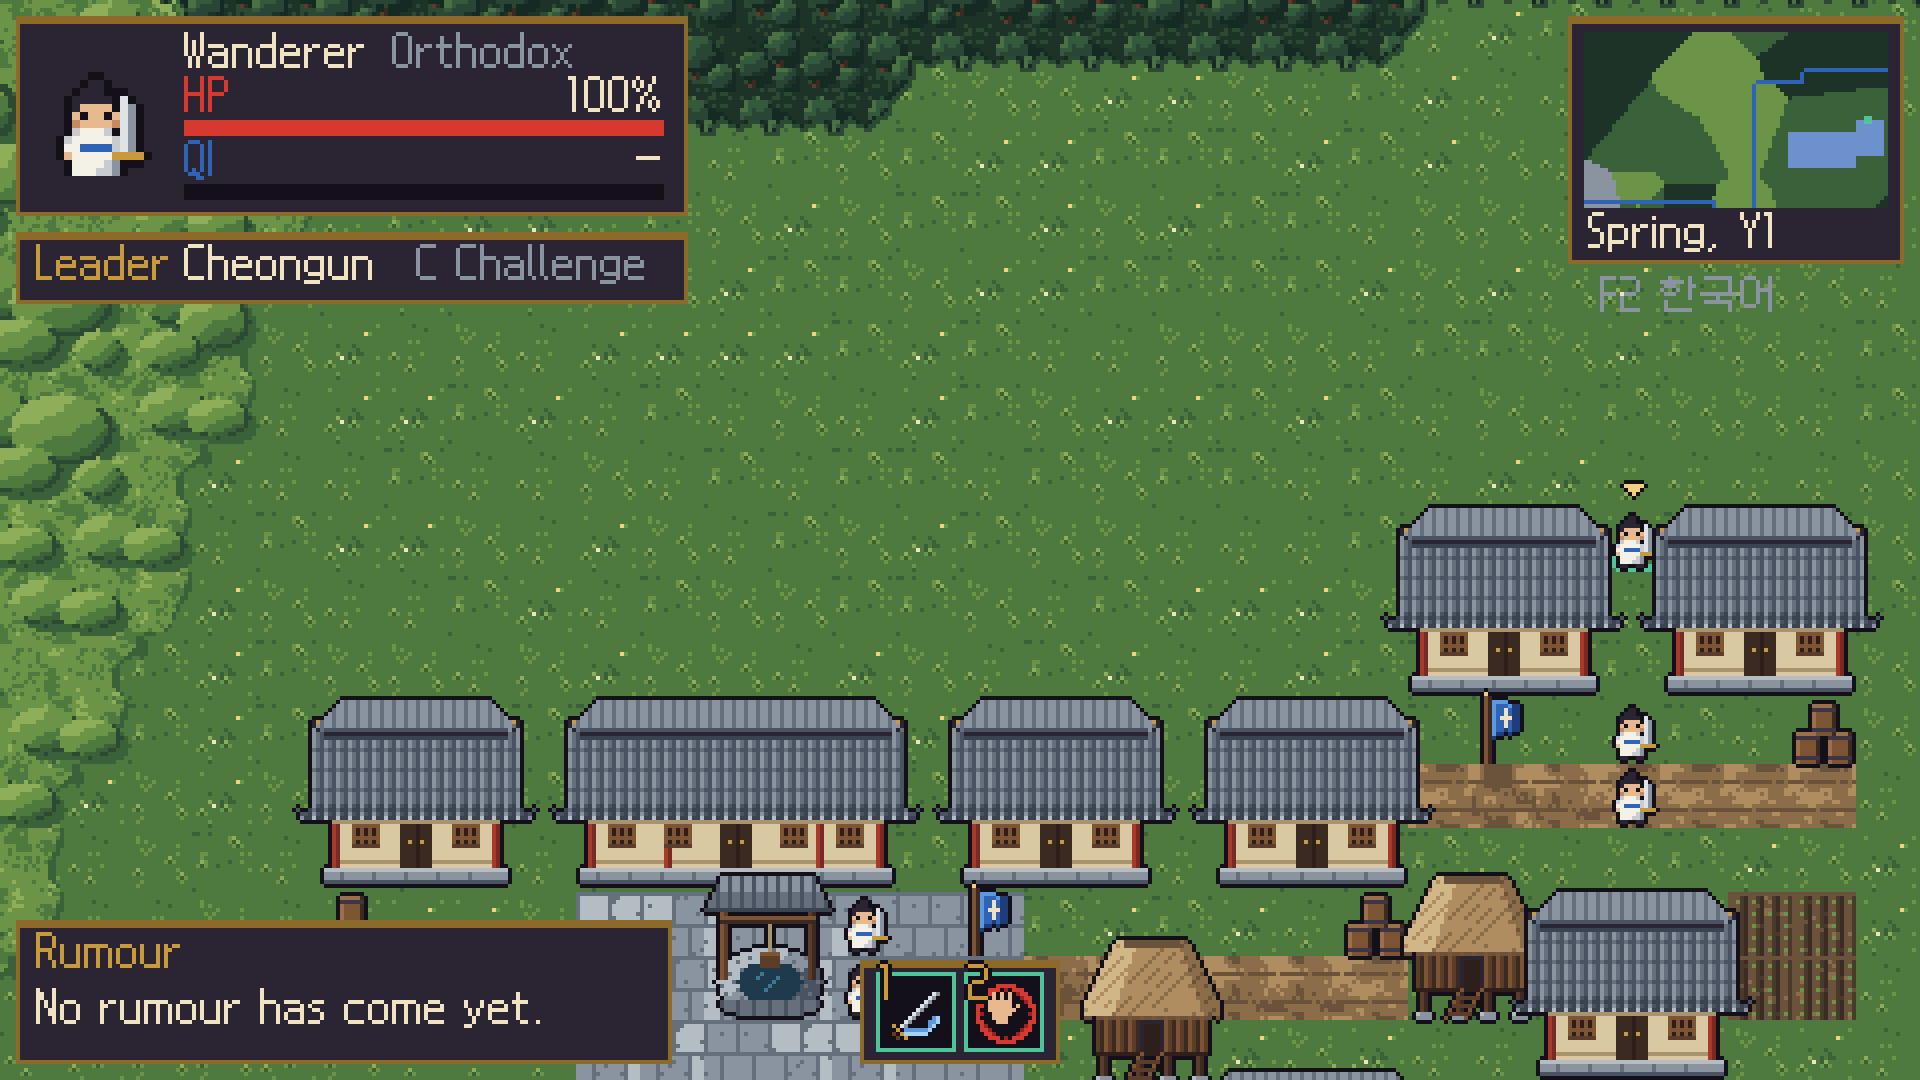
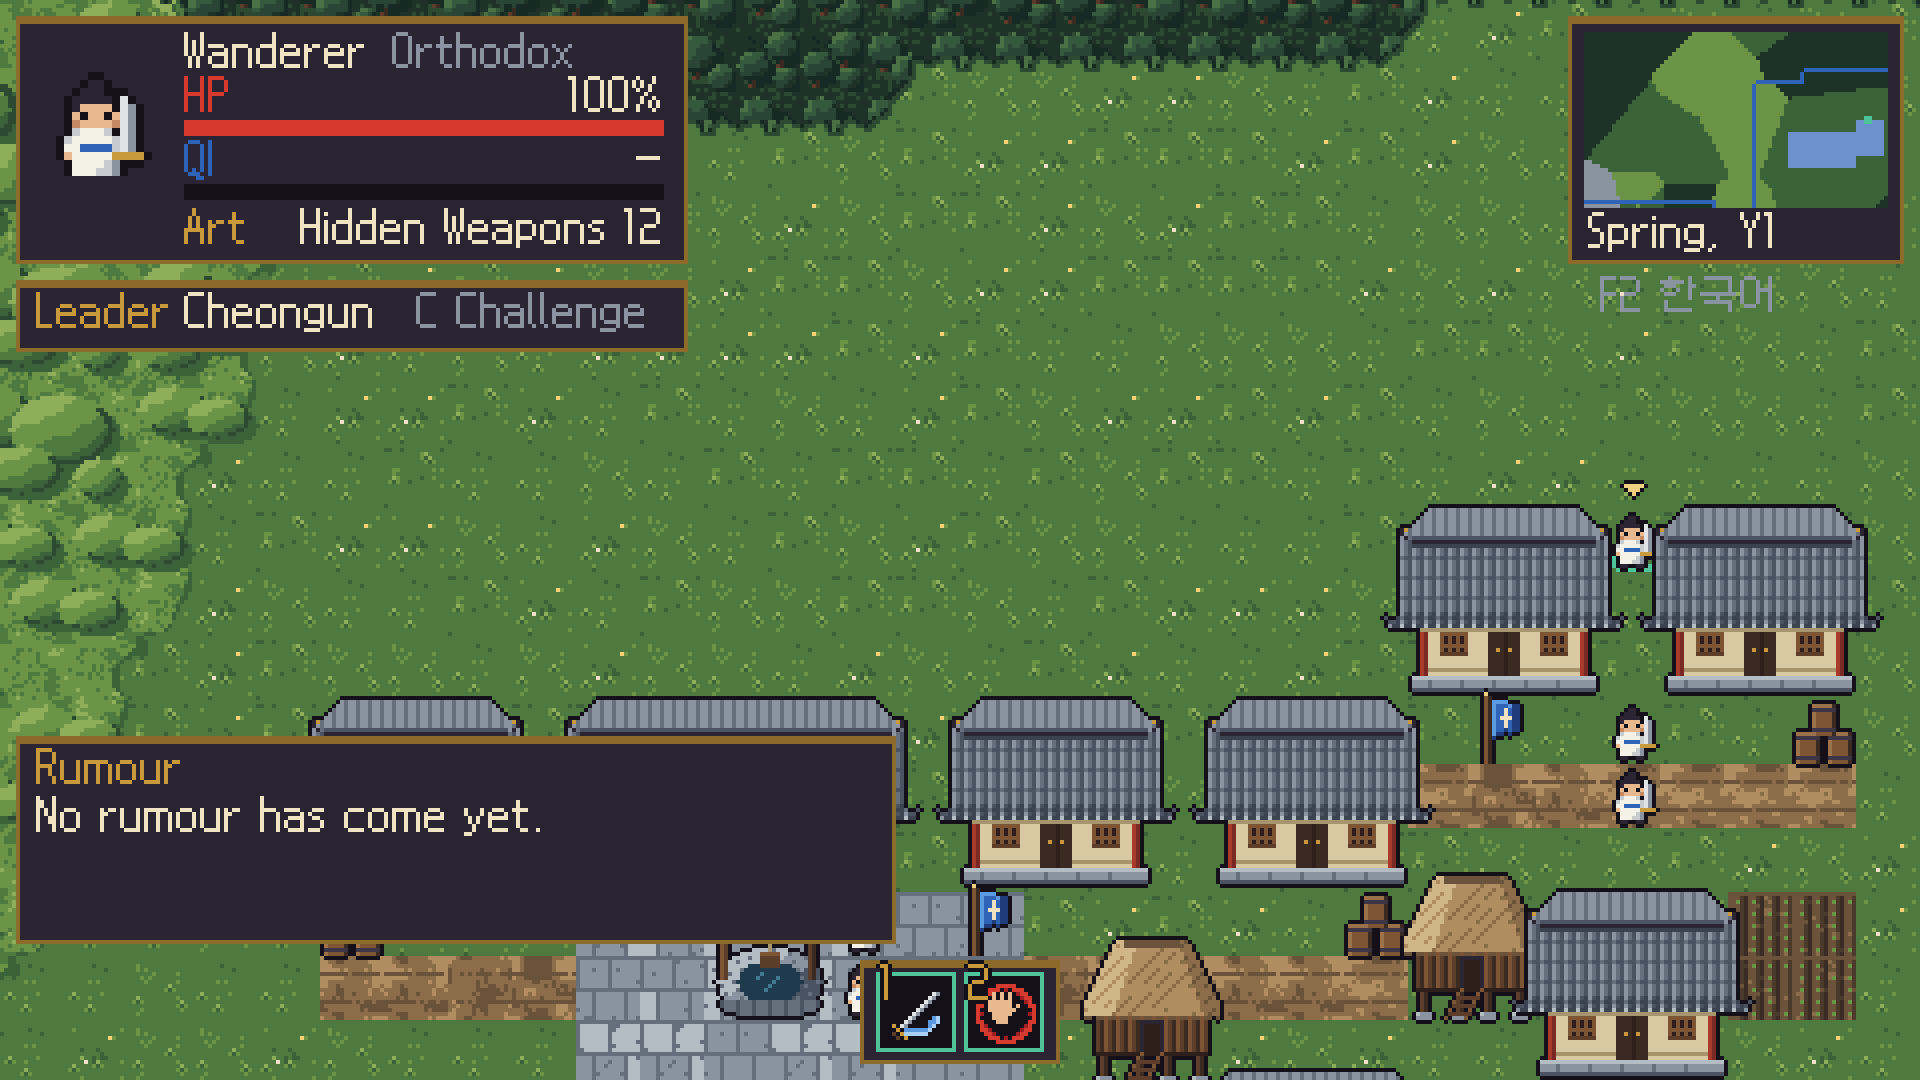
docs: capture saving and continuing for PR #142 after its rebase

Changed region(s): [[0.0, 0.6722, 0.4688, 1.0], [0.0, 0.1833, 0.375, 0.3361]]

diff --git a/README.md b/README.md
@@ -1,6 +1,6 @@
 # Evidence for PR #142
 
-Captures of feat/save-menu at eb65759, the PR's head, in a 480 x 270 window, each with a _4x nearest-neighbour copy. This branch is never merged.
+Captures of feat/save-menu at e934431, the PR's head after its rebase onto b7cef57 (#143's HUD art and rumours, #144), in a 480 x 270 window, each with a _4x nearest-neighbour copy. This branch is never merged.
 
 capture_saves.gd drives play.tscn as a player does, through play.gd's navigate(), in each locale. It fails if any two images repeat. The language is chosen on the settings panel at each opening, and kept in a file of the script's own, which it removes at the end. A save already in slot 0 is set aside before the run and put back after it. None was there for this run.
 
@@ -13,13 +13,15 @@ capture_saves.gd drives play.tscn as a player does, through play.gd's navigate()
 Run: `godot --path . --script <capture_saves.gd> -- <dir>`. It logged:
 
     capture_saves: title_no_save_ko.png 480x270, sha256 428be8c227ffda72, locale ko; unavailable ["continue"], slot 0 refusal 0
-    capture_saves: pause_saved_ko.png 480x270, sha256 a2232f8ce9c76eaf, locale ko; chosen save, notice PAUSE_SAVED, seed 4817203365, ticks 4, hash 6399365181124728065, slot 0 refusal -1
+    capture_saves: pause_saved_ko.png 480x270, sha256 0a56f3430e5b73c7, locale ko; chosen save, notice PAUSE_SAVED, seed 4817203365, ticks 4, hash -5825569662895387024, slot 0 refusal -1
     capture_saves: title_continue_ko.png 480x270, sha256 3eb638792f8bf7c3, locale ko; chosen continue, unavailable []
-    capture_saves: continued_ko.png 480x270, sha256 88b0bb8bfaf7d9ea, locale ko; world seed 4817203365, steered army 10, player_army 10, screen <null>, hash at load 6399365181124728065
+    capture_saves: continued_ko.png 480x270, sha256 f95f4a2ff459114b, locale ko; world seed 4817203365, steered army 10, player_army 10, screen <null>, hash at load -5825569662895387024
     capture_saves: title_load_error_ko.png 480x270, sha256 acd782e2d17dfaa1, locale ko; world <null>, notice TITLE_LOAD_NOT_A_SAVE, slot 0 refusal 1
     capture_saves: title_no_save_en.png 480x270, sha256 26a3464c89cbb60f, locale en; unavailable ["continue"], slot 0 refusal 0
-    capture_saves: pause_saved_en.png 480x270, sha256 9e958867b81cee64, locale en; chosen save, notice PAUSE_SAVED, seed 4817203365, ticks 5, hash -6261549340689345155, slot 0 refusal -1
+    capture_saves: pause_saved_en.png 480x270, sha256 2304e6e6899d9177, locale en; chosen save, notice PAUSE_SAVED, seed 4817203365, ticks 4, hash -5825569662895387024, slot 0 refusal -1
     capture_saves: title_continue_en.png 480x270, sha256 b40a490895c16ff0, locale en; chosen continue, unavailable []
-    capture_saves: continued_en.png 480x270, sha256 5be6a4733fb677c7, locale en; world seed 4817203365, steered army 10, player_army 10, screen <null>, hash at load -6261549340689345155
+    capture_saves: continued_en.png 480x270, sha256 0ed7704a30115379, locale en; world seed 4817203365, steered army 10, player_army 10, screen <null>, hash at load -5825569662895387024
     capture_saves: title_load_error_en.png 480x270, sha256 f662a2b014d000d9, locale en; world <null>, notice TITLE_LOAD_NOT_A_SAVE, slot 0 refusal 1
     capture_saves: 10 images, none repeated true
+
+Against the first captures at eb65759, the title screens are byte-identical; pause_saved and continued differ by #143's HUD behind them.
